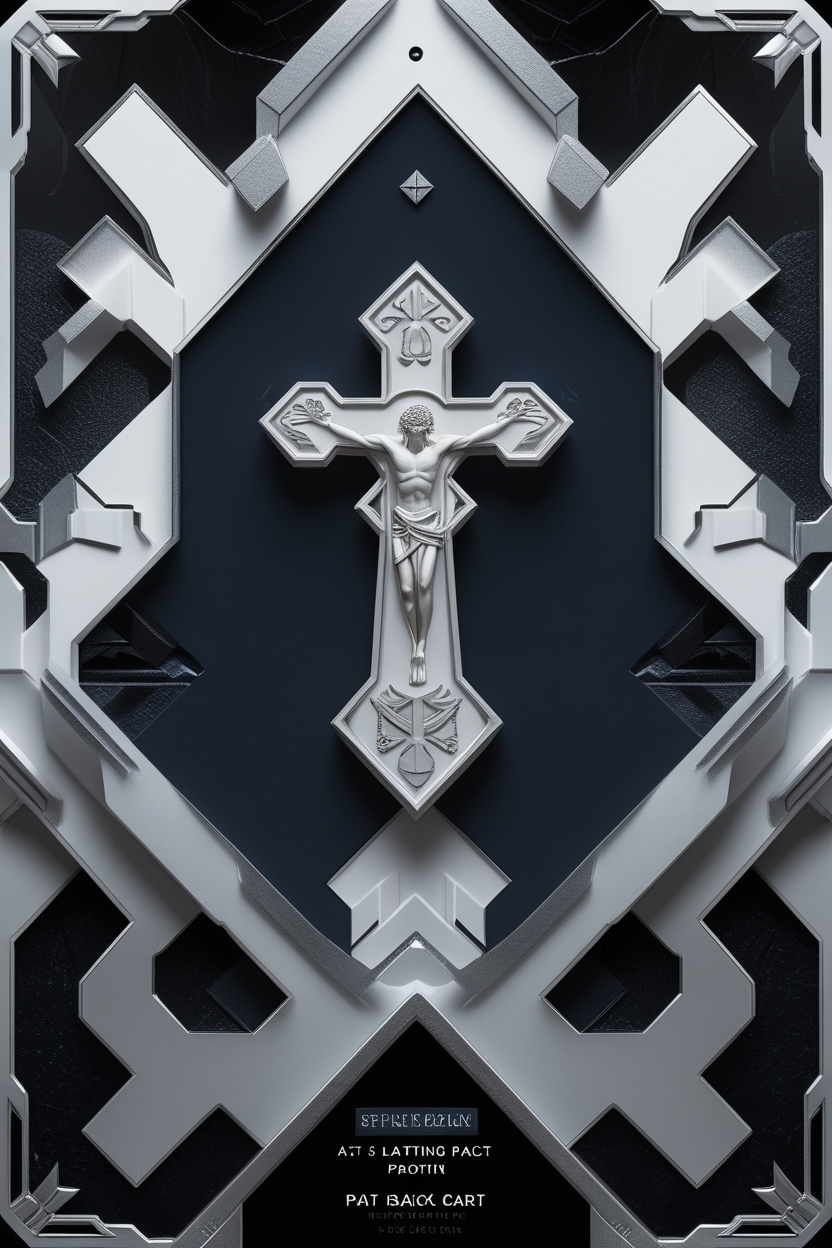
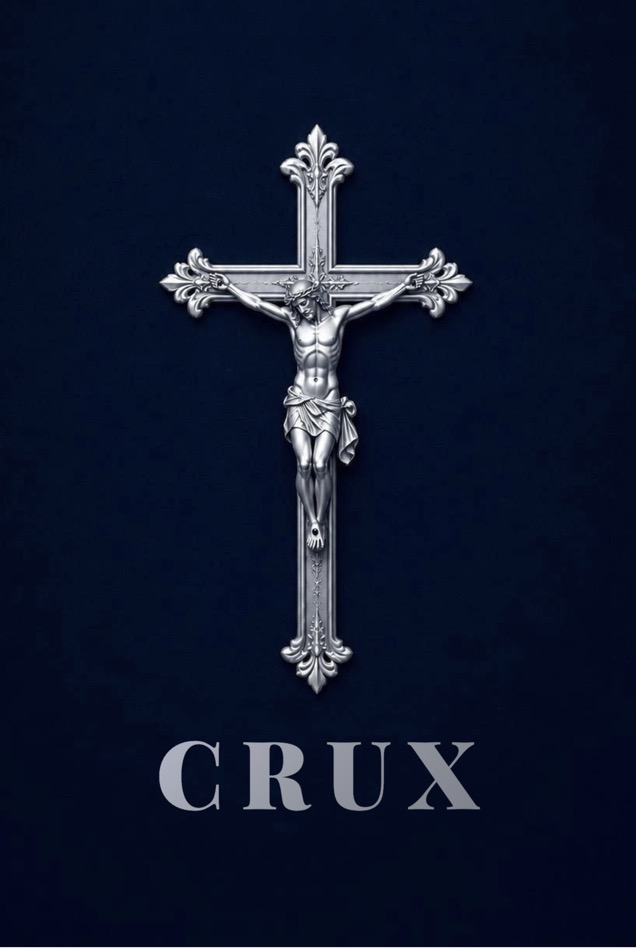
Update pack images; remove Council Pack from store
New minimalist portrait art for Standard, Premium, and Apostles packs.
Council Pack removed from the XP store — module-based pack rewards
will be awarded separately outside the store flow.

diff --git a/crux-pack-store.html b/crux-pack-store.html
@@ -1059,25 +1059,6 @@
             earnedOnly: false,
             gradient: 'linear-gradient(145deg, #1e0a2a 0%, #2e1240 100%)',
             artColor: 'rgba(180,120,240,0.8)'
-        },
-        {
-            id: 'council',
-            name: 'Council Pack',
-            desc: 'Unlocked by completing the Vatican II module. Cannot be purchased.',
-            image: 'images/packs/pack-council.jpg',
-            rarity: 'earned',
-            cardCount: 4,
-            cost: 0,
-            unlockLevel: 1,
-            earnedOnly: true,
-            gradient: 'linear-gradient(145deg, #0a2a1e 0%, #123d2e 100%)',
-            artColor: 'rgba(107,203,119,0.8)',
-            fixedCards: [
-                { id: 'sc', name: 'Sacrosanctum Concilium', rarity: 'rare' },
-                { id: 'lg', name: 'Lumen Gentium',          rarity: 'epic' },
-                { id: 'dv', name: 'Dei Verbum',             rarity: 'rare' },
-                { id: 'gs', name: 'Gaudium et Spes',        rarity: 'legendary' }
-            ]
         }
     ];
 